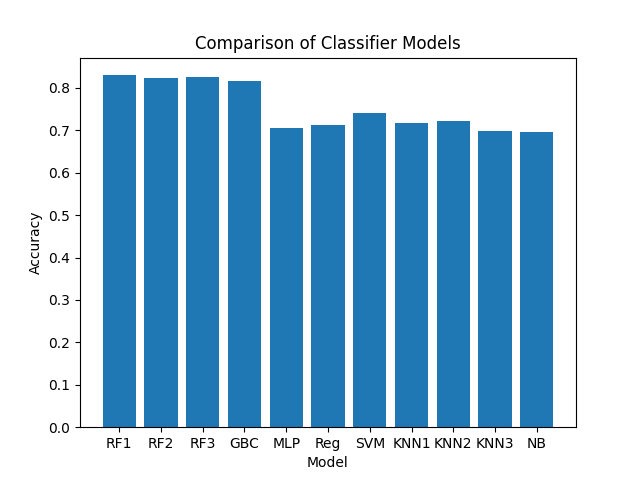
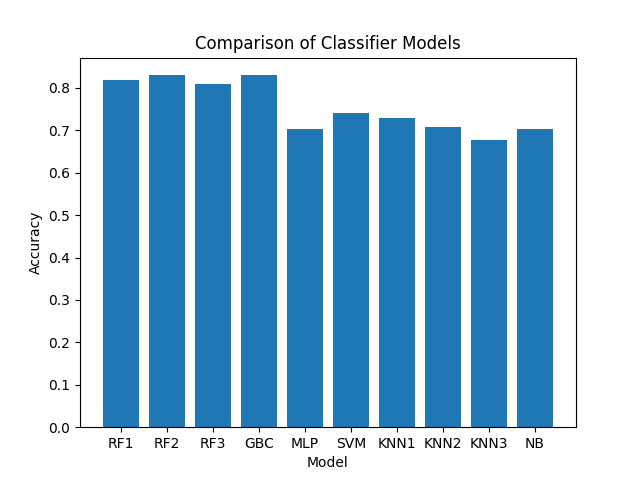
deleting unused files

Changed region(s): [[0.1562, 0.1562, 0.875, 0.9375]]

diff --git a/data_training_different models.py b/data_training_different models.py
@@ -43,7 +43,6 @@ models = {
     'RF3': RandomForestClassifier(n_estimators=50, max_depth=25, min_samples_leaf=20),
     'GBC': GradientBoostingClassifier(n_estimators = 200, min_samples_leaf = 10),
     'MLP': MLPClassifier(solver = 'lbfgs', activation = 'logistic', max_iter = 10000, random_state=42),
-    'Reg': LogisticRegression(max_iter=1000),
     'SVM': SVC(random_state=42),
     'KNN1': KNeighborsClassifier(n_neighbors=5),
     'KNN2': KNeighborsClassifier(n_neighbors=10),
